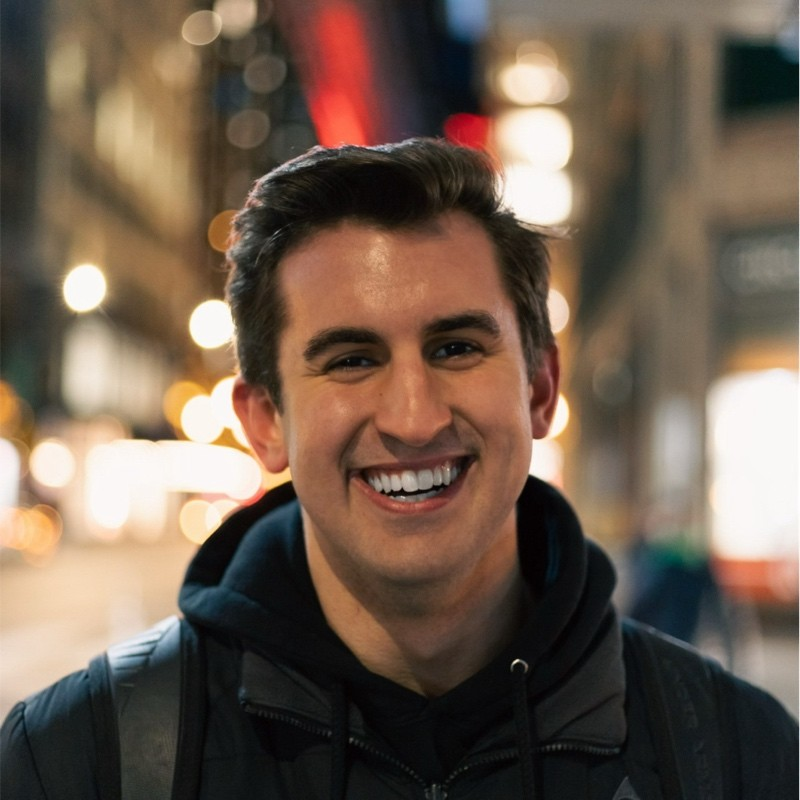
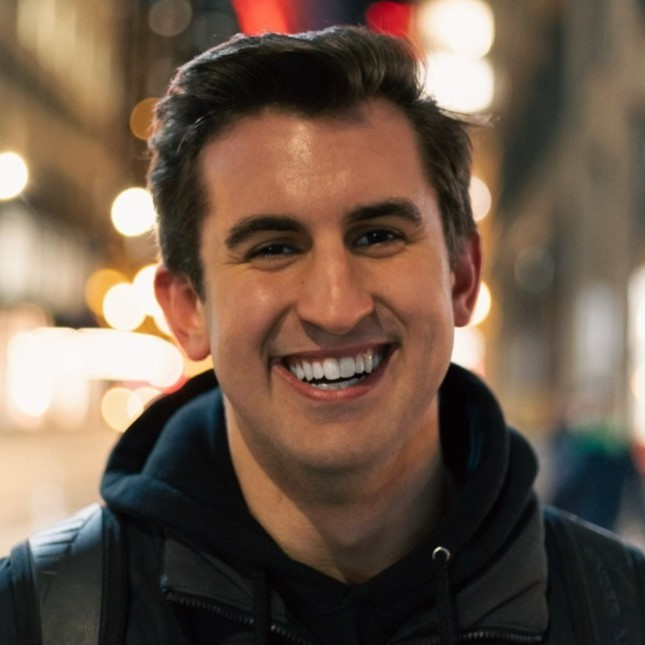
Feature: Finished Ript team page
Added the last photo missing for the team page.
made minor changes to SettingsScreen and add AddWorkoutScreen.

diff --git a/frontend/app/screens/workout/AddWorkoutScreen.tsx b/frontend/app/screens/workout/AddWorkoutScreen.tsx
@@ -455,7 +455,7 @@ const addWorkout = () => {
       <View style={{justifyContent: 'center', alignContent: 'center', alignSelf: 'center'}}>
           {exercises.length === 0 && (
             <Text style={styles.helperText} numberOfLines={2}>
-              Use the '+' button to add {"\n"} an exercise to your workout.
+              Use the '+' button to add {"\n"} an exercise to your workout
             </Text>
           )}
       </View>
@@ -533,7 +533,7 @@ const styles = StyleSheet.create({
   inputStyle: {
     flex: 1, // Ensures the input takes up the remaining space
     // color: '#747474',
-    fontSize: 20,
+    fontSize: 25,
     fontWeight: 'bold',
   },
   dragOverlay: {
@@ -630,7 +630,7 @@ test: {
     alignSelf:'flex-end',
   },
   helperText: {
-    color: '#666', // grey color
+    color: '#888', // grey color
     fontSize: 16,
     textAlign: 'center',
     marginTop: '60%'

diff --git a/frontend/components/MyNotes/NotesContext.tsx b/frontend/components/MyNotes/NotesContext.tsx
@@ -80,7 +80,7 @@ export const NotesProvider: React.FC<{ children: React.ReactNode }> = ({ childre
       });
       const data = await response.json();
       if (response.ok) {
-        setNotes(prevNotes => [...prevNotes, note]);
+        setNotes(prevNotes => [note, ...prevNotes]);
       } else {
         console.error('Failed to add note:', data);
       }

diff --git a/frontend/app/screens/profile/SettingsScreen.tsx b/frontend/app/screens/profile/SettingsScreen.tsx
@@ -303,7 +303,7 @@ const styles = StyleSheet.create({
     borderBottomColor: '#ddd',
   },
   label: { fontSize: 16, fontWeight: '500', color: '#333' },
-  input: { fontSize: 16, color: '#333', paddingRight: 15, },
+  input: { fontSize: 16, color: '#333', paddingRight: 15, flex: 1, textAlign: 'right', },
 });
 
 export default SettingsScreen;

diff --git a/frontend/app/screens/profile/RiptTeamScreen.tsx b/frontend/app/screens/profile/RiptTeamScreen.tsx
@@ -12,7 +12,7 @@ const data = [
   {
     id: 1,
     name: "Evan Snowgold",
-    imageSrc: require('@/assets/images/team_photos/placeholder.png'),
+    imageSrc: require('@/assets/images/team_photos/evan.jpg'),
     title: "Lead Developer"
   },
   {
